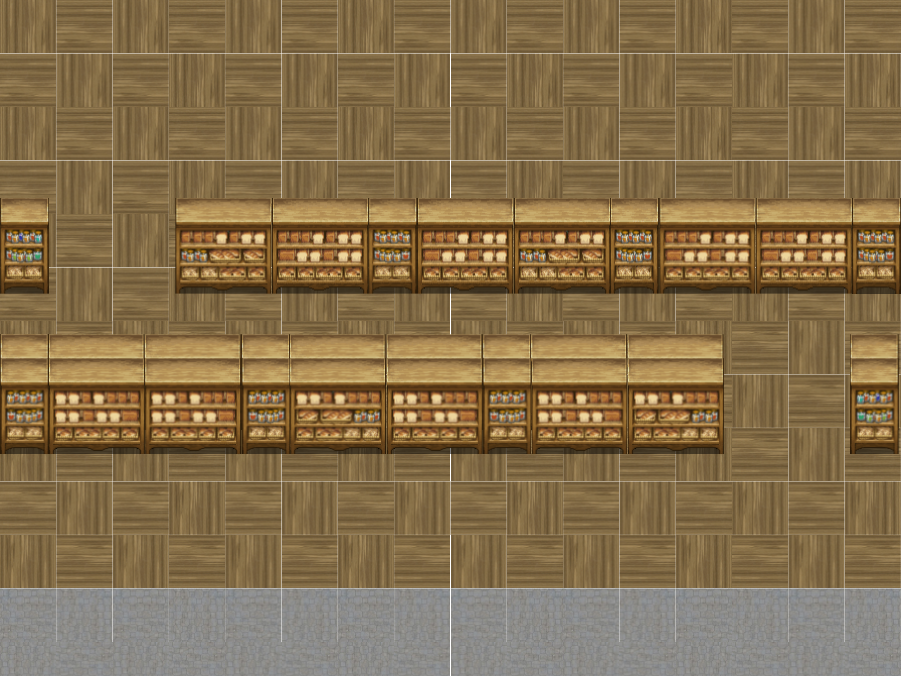
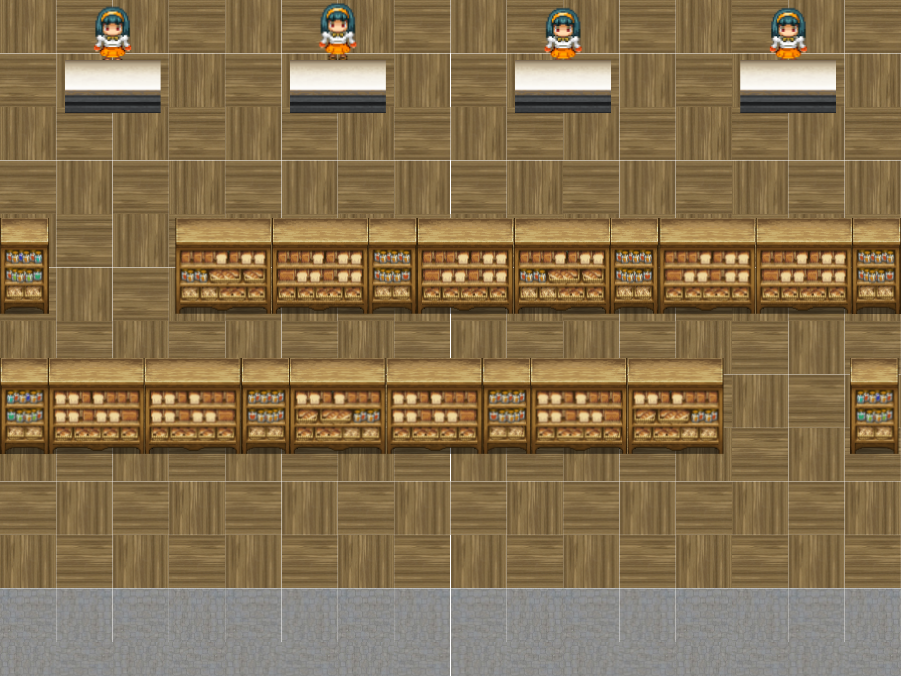
Adjusted graphics buffering

diff --git a/A4_DataManagement/DataStructures/InsideLineQueue.cs b/A4_DataManagement/DataStructures/InsideLineQueue.cs
@@ -52,19 +52,19 @@ namespace A4_DataManagement
             // Returning appropriate customer vector based on index
             if (index == 0)
             {
-                return new Vector2((SharedData.COFFEE_SHOP_WIDTH - SharedData.CUSTOMER_WIDTH) / 2 - 3 * SharedData.HORIZONTAL_BUFFER, SharedData.VERTICAL_BUFFER - SharedData.CUSTOMER_HEIGHT / 2);
+                return new Vector2((SharedData.COFFEE_SHOP_WIDTH - SharedData.CUSTOMER_WIDTH) / 2 - 3 * SharedData.HORIZONTAL_SPACING, SharedData.VERTICAL_BUFFER + SharedData.VERTICAL_SPACING);
             }
             else if (index < 8)
             {
-                return new Vector2((SharedData.COFFEE_SHOP_WIDTH - SharedData.CUSTOMER_WIDTH) / 2 + SharedData.HORIZONTAL_BUFFER * (index - 4), SharedData.VERTICAL_BUFFER + SharedData.CUSTOMER_HEIGHT);
+                return new Vector2((SharedData.COFFEE_SHOP_WIDTH - SharedData.CUSTOMER_WIDTH) / 2 + SharedData.HORIZONTAL_SPACING * (index - 4), SharedData.VERTICAL_BUFFER + 3 * SharedData.VERTICAL_SPACING);
             }
             else if (index == 8)
             {
-                return new Vector2(SharedData.COFFEE_SHOP_WIDTH - SharedData.CUSTOMER_WIDTH / 2 - SharedData.HORIZONTAL_BUFFER, SharedData.VERTICAL_BUFFER + 2 * SharedData.CUSTOMER_HEIGHT);
+                return new Vector2(SharedData.COFFEE_SHOP_WIDTH - SharedData.CUSTOMER_WIDTH / 2 - SharedData.HORIZONTAL_SPACING, SharedData.VERTICAL_BUFFER + 4 * SharedData.VERTICAL_SPACING);
             }
             else
             {
-                return new Vector2(SharedData.COFFEE_SHOP_WIDTH - SharedData.CUSTOMER_WIDTH / 2 - SharedData.HORIZONTAL_BUFFER * (index - 8), SharedData.VERTICAL_BUFFER + 3 * SharedData.CUSTOMER_HEIGHT);
+                return new Vector2(SharedData.COFFEE_SHOP_WIDTH - SharedData.CUSTOMER_WIDTH / 2 - SharedData.HORIZONTAL_SPACING * (index - 8), SharedData.VERTICAL_BUFFER + 5 * SharedData.VERTICAL_SPACING);
             }
         }
 

diff --git a/A4_DataManagement/DataStructures/CashierLine.cs b/A4_DataManagement/DataStructures/CashierLine.cs
@@ -70,8 +70,8 @@ namespace A4_DataManagement
             // Setting up customer locations
             for (int i = 0; i < TOTAL_CASHIERS; ++i)
             {
-                cashierLocations[i] = new Vector2(74 + 2 * SharedData.HORIZONTAL_BUFFER * i, SharedData.VERTICAL_BUFFER - 3 * SharedData.CUSTOMER_HEIGHT / 2);
-                exitLocations[i] = new Vector2(74 + (i % 2 == 0 ? -1 : 1) * SharedData.CUSTOMER_WIDTH + 2 * SharedData.HORIZONTAL_BUFFER * i, -SharedData.CUSTOMER_HEIGHT);
+                cashierLocations[i] = new Vector2(74 + 2 * SharedData.HORIZONTAL_SPACING * i, SharedData.VERTICAL_BUFFER);
+                exitLocations[i] = new Vector2(74 + (i % 2 == 0 ? -1 : 1) * SharedData.CUSTOMER_WIDTH + 2 * SharedData.HORIZONTAL_SPACING * i, -SharedData.CUSTOMER_HEIGHT);
             }
         }
 

diff --git a/A4_DataManagement/Core/SharedData.cs b/A4_DataManagement/Core/SharedData.cs
@@ -53,12 +53,17 @@ namespace A4_DataManagement
         /// <summary>
         /// The vertical buffer of the customer's location
         /// </summary>
-        public const int VERTICAL_BUFFER = 150;
+        public const int VERTICAL_BUFFER = 60;
 
         /// <summary>
-        /// The horizontal buffer of the customer's location
+        /// The horizontal spacing of the customer's location
         /// </summary>
-        public const int HORIZONTAL_BUFFER = 100;
+        public const int HORIZONTAL_SPACING = 100;
+
+        /// <summary>
+        /// The vertical spacing of the customer's location
+        /// </summary>
+        public const int VERTICAL_SPACING = 60;
 
         /// <summary>
         /// Static constructor to initialize SharedData class data

diff --git a/A4_DataManagement/Customer/Customer.cs b/A4_DataManagement/Customer/Customer.cs
@@ -70,7 +70,7 @@ namespace A4_DataManagement
         public Customer()
         {
             // Constructing initial customer rectangle
-            rectangle = new Rectangle(SharedData.COFFEE_SHOP_WIDTH + SharedData.CUSTOMER_WIDTH, SharedData.VERTICAL_BUFFER + 5 * SharedData.CUSTOMER_HEIGHT,
+            rectangle = new Rectangle(SharedData.COFFEE_SHOP_WIDTH + SharedData.CUSTOMER_WIDTH, SharedData.VERTICAL_BUFFER + 6 * SharedData.CUSTOMER_HEIGHT,
                 SharedData.CUSTOMER_WIDTH, SharedData.CUSTOMER_HEIGHT);
             currentTarget.X = rectangle.X;
             currentTarget.Y = rectangle.Y;

diff --git a/A4_DataManagement/DataStructures/OutsideLineQueue.cs b/A4_DataManagement/DataStructures/OutsideLineQueue.cs
@@ -99,7 +99,7 @@ namespace A4_DataManagement
         private Vector2 GetDestinationLocation(int index)
         {
             // Returning the destination rectangle of the customer
-            return new Vector2(SharedData.HORIZONTAL_BUFFER * (index + 1) - SharedData.CUSTOMER_WIDTH / 2, SharedData.VERTICAL_BUFFER + 5 * SharedData.CUSTOMER_HEIGHT);
+            return new Vector2(SharedData.HORIZONTAL_SPACING * (index + 1) - SharedData.CUSTOMER_WIDTH / 2, SharedData.VERTICAL_BUFFER + 6 * SharedData.CUSTOMER_HEIGHT);
         }
     }
 }
